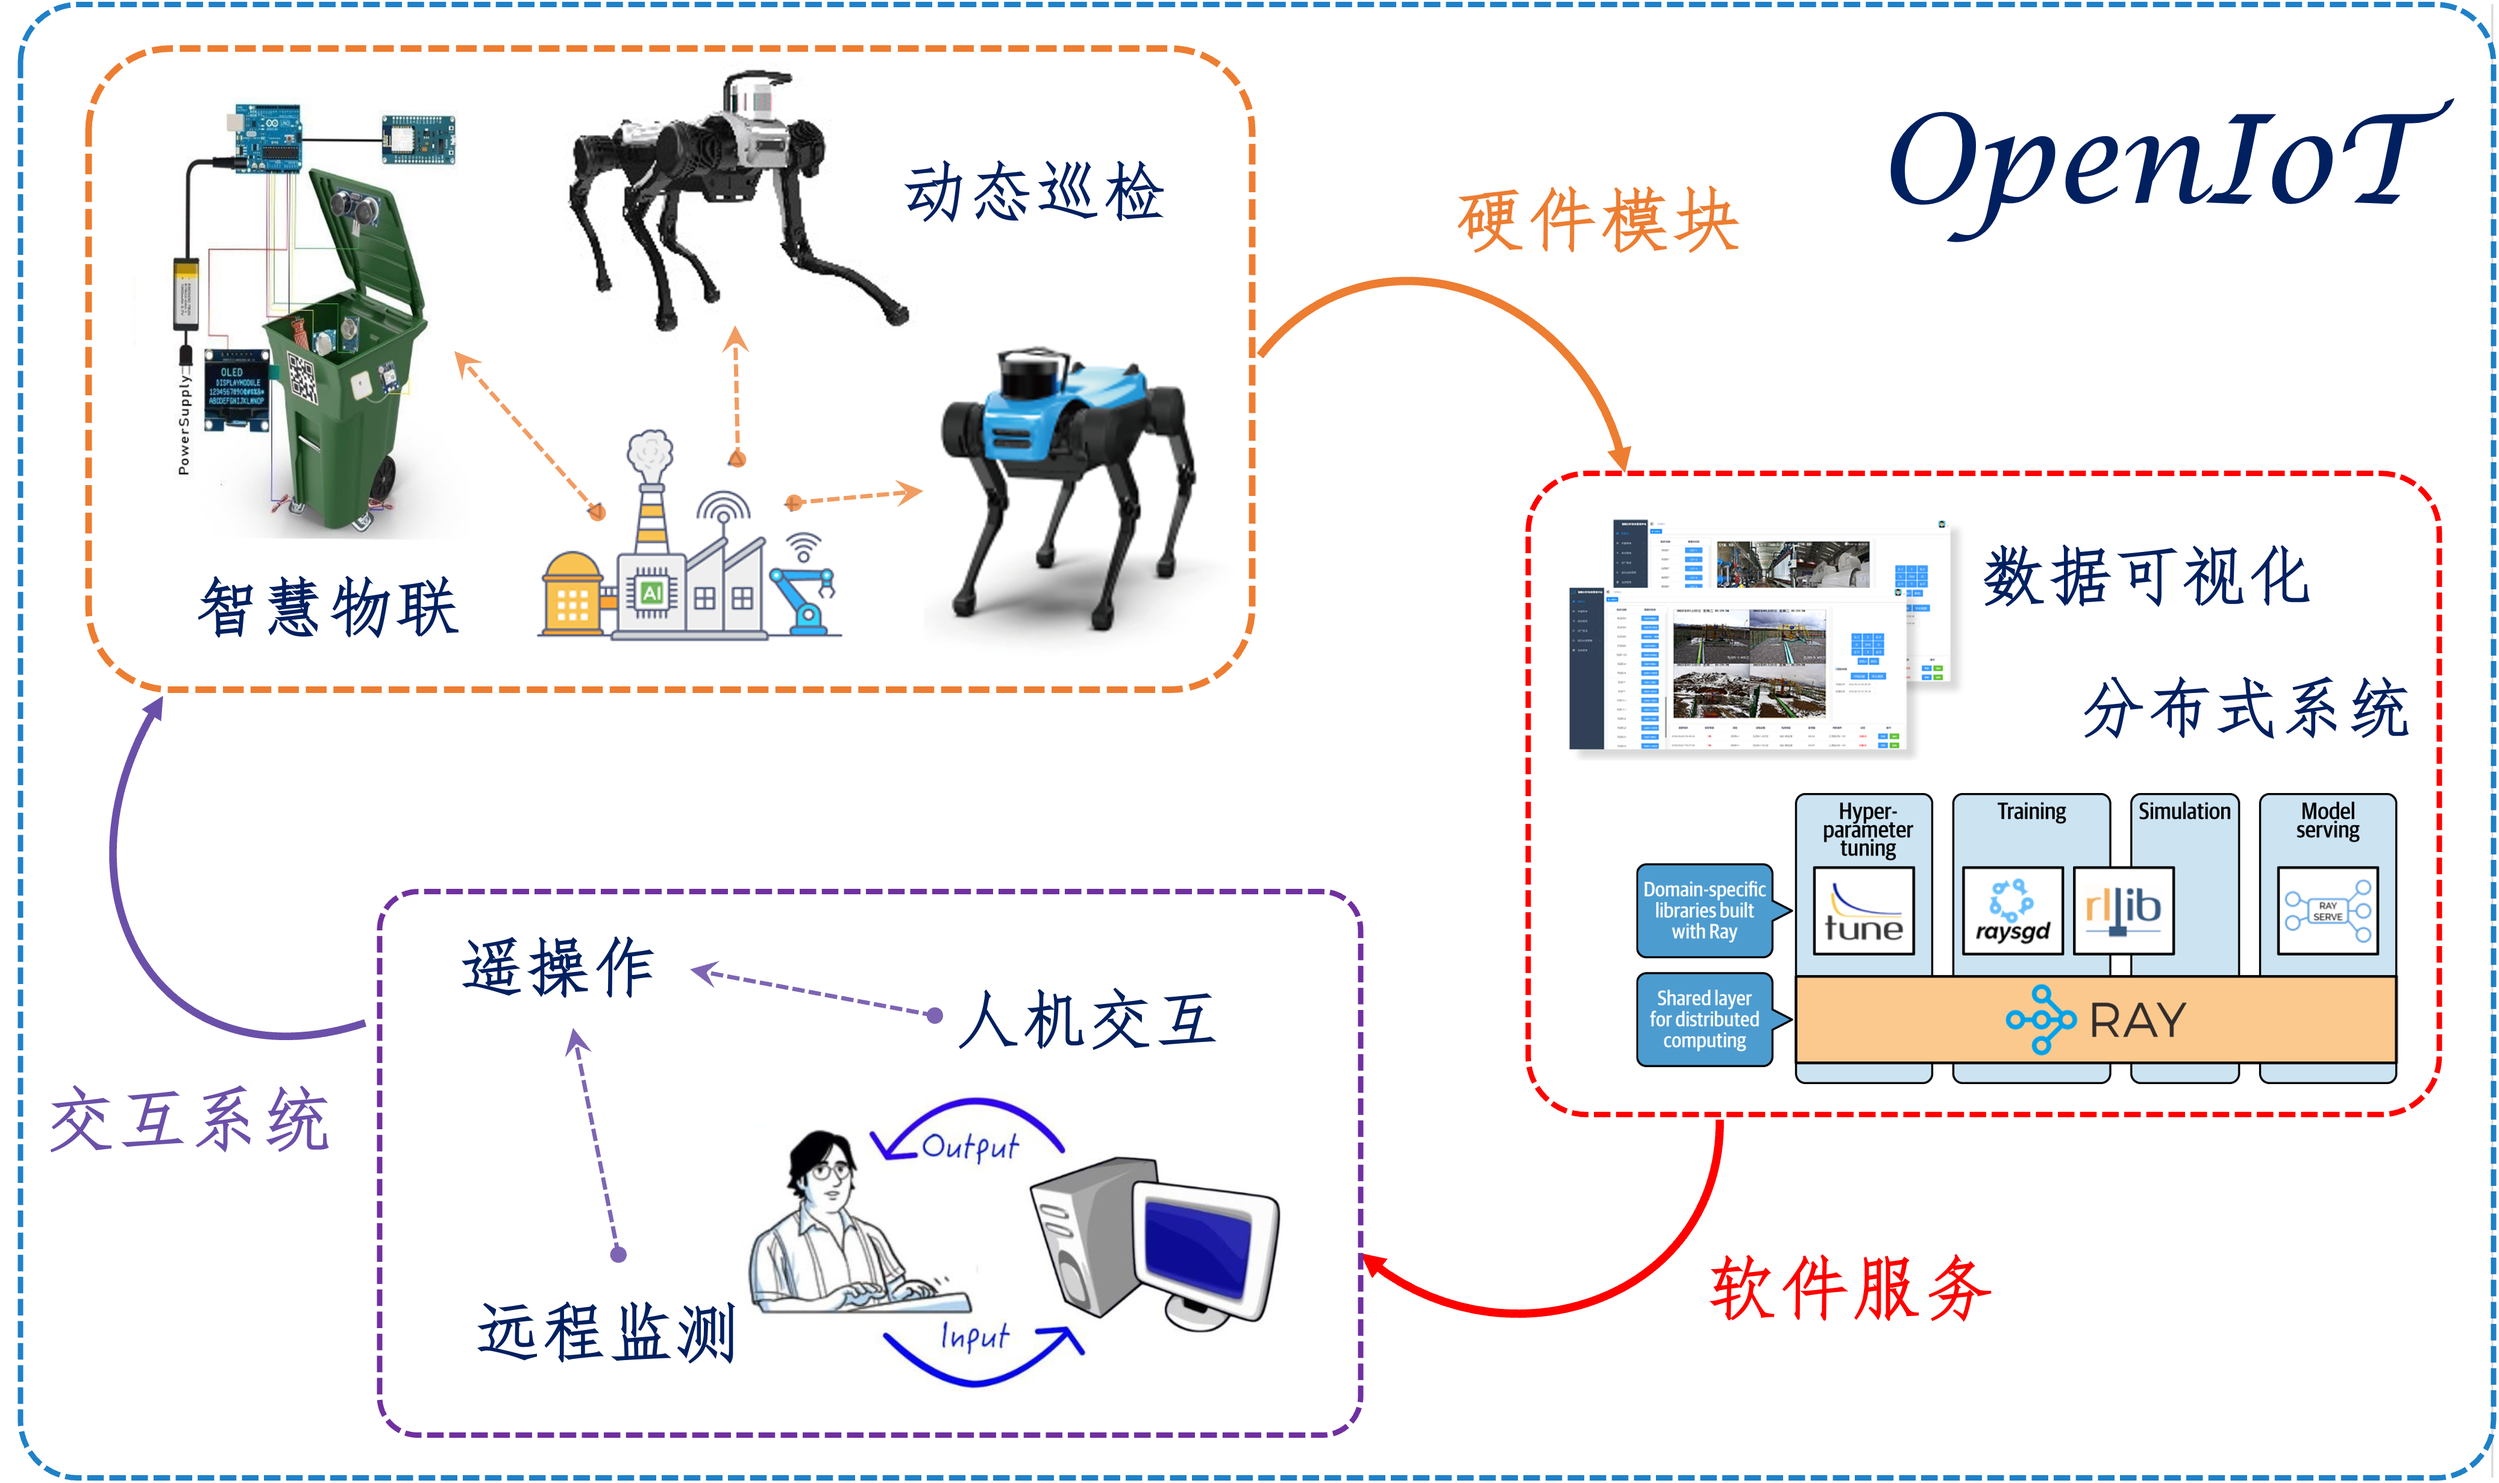
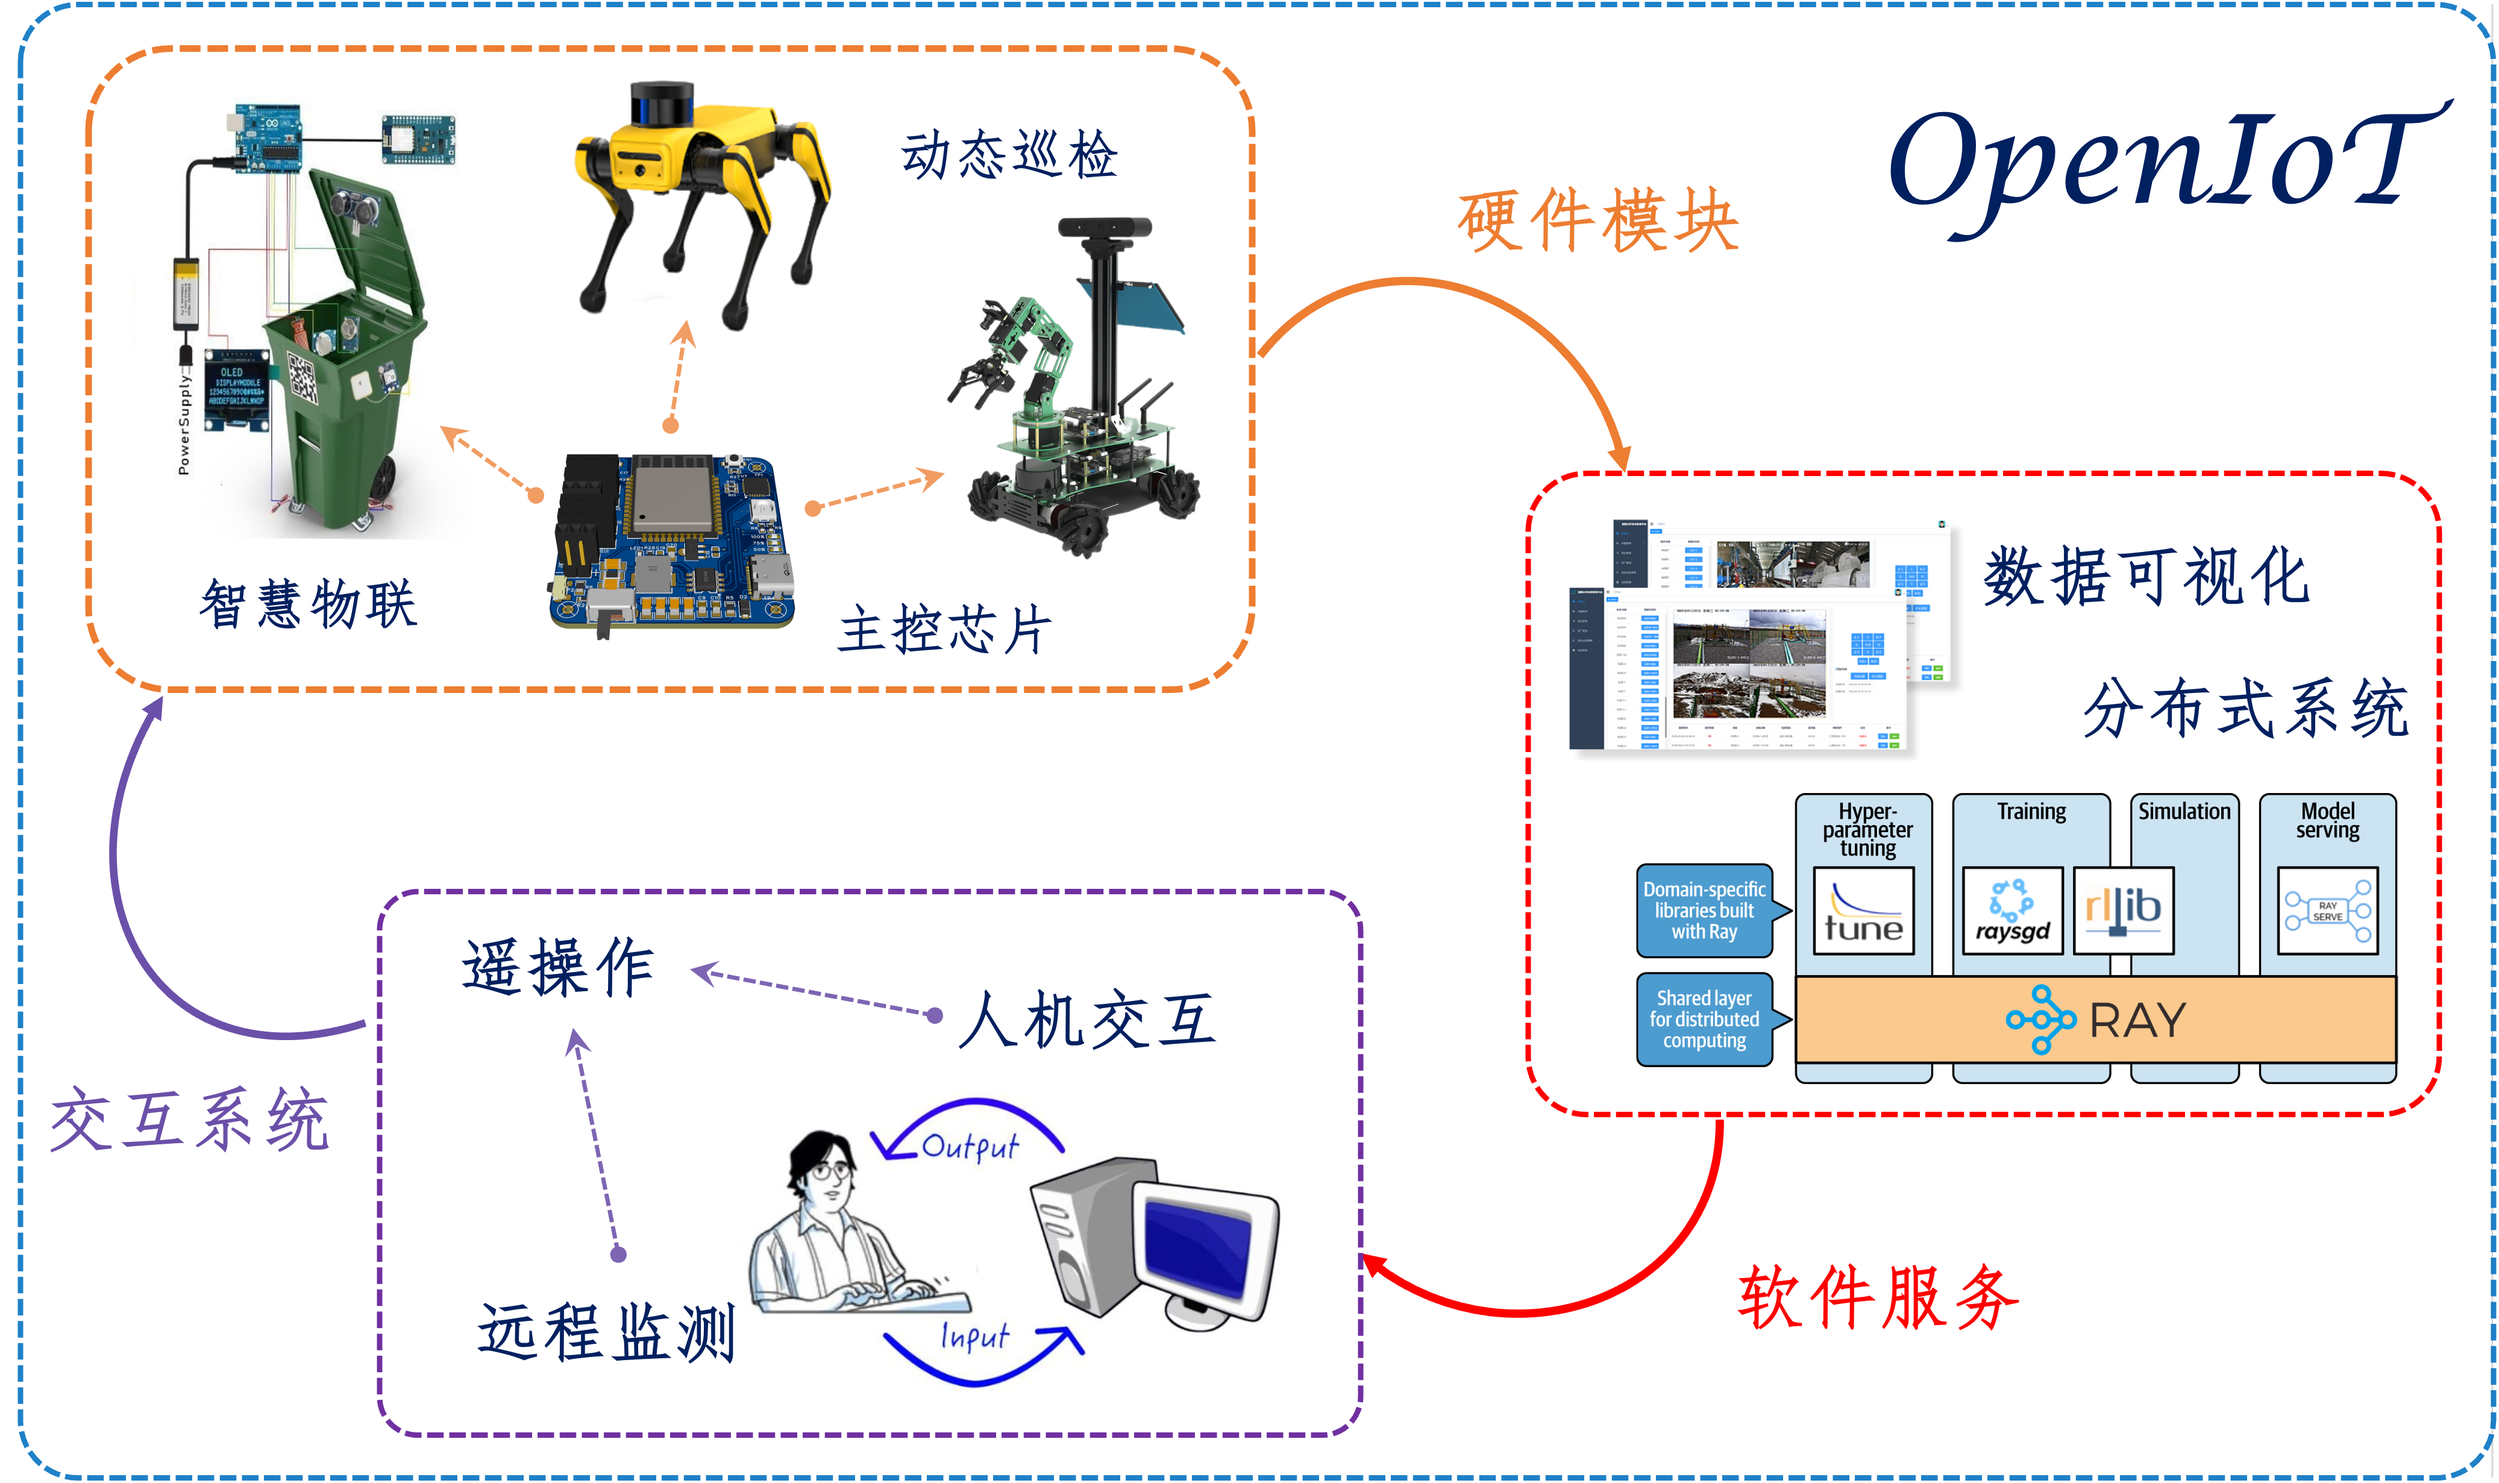
update

Changed region(s): [[0.1866, 0.0309, 0.4977, 0.4323], [0.6844, 0.8338, 0.8088, 0.8956], [0.0622, 0.3706, 0.1866, 0.4323]]

diff --git a/site/index.html b/site/index.html
@@ -722,19 +722,19 @@
 
 <h1 id="welcome-to-openiot">Welcome to OpenIoT<a class="headerlink" href="#welcome-to-openiot" title="Permanent link">&para;</a></h1>
 <p>欢迎来到OpenIoT团队主页!</p>
-<p>本团队由福州大学自动化系的3名本科生发起，截止目前拥有18名正式成员。项目立足于福建省工业自动化控制技术与信息处理重点实验室，受到福州大学本科生科研训练计划基金的支持。</p>
+<p>本团队由自动化系的3名本科生发起，截止目前拥有18名正式成员。项目立足于福建省工业自动化控制技术与信息处理重点实验室，受到国家级本科生科研训练计划基金的重点支持。</p>
 <p>我们致力于探索和应用物联网技术，为实现智能化生活和自动化生产做出贡献，充分利用所学知识与技能，为社会带来福祉。我们期待能够与您共同探索物联网技术的无限魅力！</p>
 <p><br></p>
 <p><img alt="system" src="index.assets/system.png" /></p>
 <h2 id="_1">本站新闻<a class="headerlink" href="#_1" title="Permanent link">&para;</a></h2>
 <ul>
-<li><strong>2023年5月09日</strong> 第二届团队即将开启招募，<a href="https://fzuiot.site/join/">敬请关注纳新通知</a></li>
-<li><strong>2023年4月20日</strong> 第一届团队成员招募完毕，<a href="https://fzuiot.site/about/people/">具体团队名单</a></li>
-<li><strong>2023年4月12日</strong> 本站第一轮更新迭代完成</li>
+<li><strong>2023年5月26日</strong> 第二届团队即将开启招募，<a href="https://fzuiot.site/join/">敬请关注纳新通知！</a></li>
+<li><strong>2023年4月20日</strong> 第一届团队成员招募完毕，<a href="https://fzuiot.site/about/people/">详见团队名单！</a></li>
+<li><strong>2023年4月12日</strong> 本站第一轮更新迭代完成！</li>
 <li><strong>2023年3月31日</strong> OpenIoT团队官网正式上线！</li>
 </ul>
 <p><br></p>
-<p align="right">福州大学OpenIoT团队</p>
+<p align="right">OpenIoT团队</p>
 
 
 

diff --git a/site/wiki/index.html b/site/wiki/index.html
@@ -711,6 +711,13 @@
   
 </li>
       
+        <li class="md-nav__item">
+  <a href="#openiot-system-flowchart" class="md-nav__link">
+    OpenIoT System Flowchart
+  </a>
+  
+</li>
+      
     </ul>
   
 </nav>
@@ -741,6 +748,9 @@
 <h2 id="_2">智慧工厂方案<a class="headerlink" href="#_2" title="Permanent link">&para;</a></h2>
 <p>结合智能安全巡检系统，四足机器人能够与多种传感器、相机和通信设备配合使用，实现实时监测、数据采集和远程操作，为工业、社区或仓储等领域的巡检工作提供了更加高效安全的解决方案。这种综合应用有望推动巡检领域的数字化和智能化转型，提升巡检效率，降低人员风险，提高巡检数据的准确性和可靠性，为企业提供更先进的巡检服务，助力业务的持续发展。</p>
 <p><img alt="flowchart" src="index.assets/uvk38w.png" /></p>
+<p><br></p>
+<h2 id="openiot-system-flowchart">OpenIoT System Flowchart<br><a class="headerlink" href="#openiot-system-flowchart" title="Permanent link">&para;</a></h2>
+<p><img alt="openiot-system" src="index.assets/openiot-system.png" /></p>
 <p><br></p>
 
 

diff --git a/site/wiki/poster/index.html b/site/wiki/poster/index.html
@@ -467,7 +467,7 @@
       
         <li class="md-nav__item">
   <a href="#_2" class="md-nav__link">
-    第九届科普创新项目大赛
+    基于智慧物联网技术的社区安全巡检系统
   </a>
   
 </li>
@@ -742,7 +742,7 @@
       
         <li class="md-nav__item">
   <a href="#_2" class="md-nav__link">
-    第九届科普创新项目大赛
+    基于智慧物联网技术的社区安全巡检系统
   </a>
   
 </li>
@@ -770,9 +770,9 @@
 
 
 <h1 id="_1">项目海报<a class="headerlink" href="#_1" title="Permanent link">&para;</a></h1>
-<h2 id="_2">第九届科普创新项目大赛<a class="headerlink" href="#_2" title="Permanent link">&para;</a></h2>
-<p><img alt="作品展板设计稿" src="../poster.assets/yu3i17.jpg" /></p>
-<p align="right">制作人：李林师、蔡汉霖</p>
+<h2 id="_2">基于智慧物联网技术的社区安全巡检系统<a class="headerlink" href="#_2" title="Permanent link">&para;</a></h2>
+<p><img alt="IoT" src="../poster.assets/IoT.png" /></p>
+<p align="right">OpenIoT团队</p>
 
 
 

diff --git a/docs/index.md b/docs/index.md
@@ -2,7 +2,7 @@
 
 欢迎来到OpenIoT团队主页!
 
-本团队由福州大学自动化系的3名本科生发起，截止目前拥有18名正式成员。项目立足于福建省工业自动化控制技术与信息处理重点实验室，受到福州大学本科生科研训练计划基金的支持。
+本团队由自动化系的3名本科生发起，截止目前拥有18名正式成员。项目立足于福建省工业自动化控制技术与信息处理重点实验室，受到国家级本科生科研训练计划基金的重点支持。
 
 我们致力于探索和应用物联网技术，为实现智能化生活和自动化生产做出贡献，充分利用所学知识与技能，为社会带来福祉。我们期待能够与您共同探索物联网技术的无限魅力！
 
@@ -12,12 +12,11 @@
 
 ## 本站新闻
 
-- **2023年5月09日** 第二届团队即将开启招募，[敬请关注纳新通知](https://fzuiot.site/join/)
-- **2023年4月20日** 第一届团队成员招募完毕，[具体团队名单](https://fzuiot.site/about/people/)
-- **2023年4月12日** 本站第一轮更新迭代完成
+- **2023年5月26日** 第二届团队即将开启招募，[敬请关注纳新通知！](https://fzuiot.site/join/)
+- **2023年4月20日** 第一届团队成员招募完毕，[详见团队名单！](https://fzuiot.site/about/people/)
+- **2023年4月12日** 本站第一轮更新迭代完成！
 - **2023年3月31日** OpenIoT团队官网正式上线！
 
 <br>
 
-
-<p align="right">福州大学OpenIoT团队</p>
+<p align="right">OpenIoT团队</p>

diff --git a/docs/wiki/poster.md b/docs/wiki/poster.md
@@ -1,7 +1,7 @@
 # 项目海报
 
-## 第九届科普创新项目大赛
+## 基于智慧物联网技术的社区安全巡检系统
 
-![作品展板设计稿](poster.assets/yu3i17.jpg)
+![IoT](poster.assets/IoT.png)
 
-<p align="right">制作人：李林师、蔡汉霖</p>
+<p align="right">OpenIoT团队</p>

diff --git a/docs/wiki/index.md b/docs/wiki/index.md
@@ -17,3 +17,9 @@
 ![flowchart](index.assets/uvk38w.png)
 
 <br>
+
+## OpenIoT System Flowchart<br>
+
+![openiot-system](index.assets/openiot-system.png)
+
+<br>
